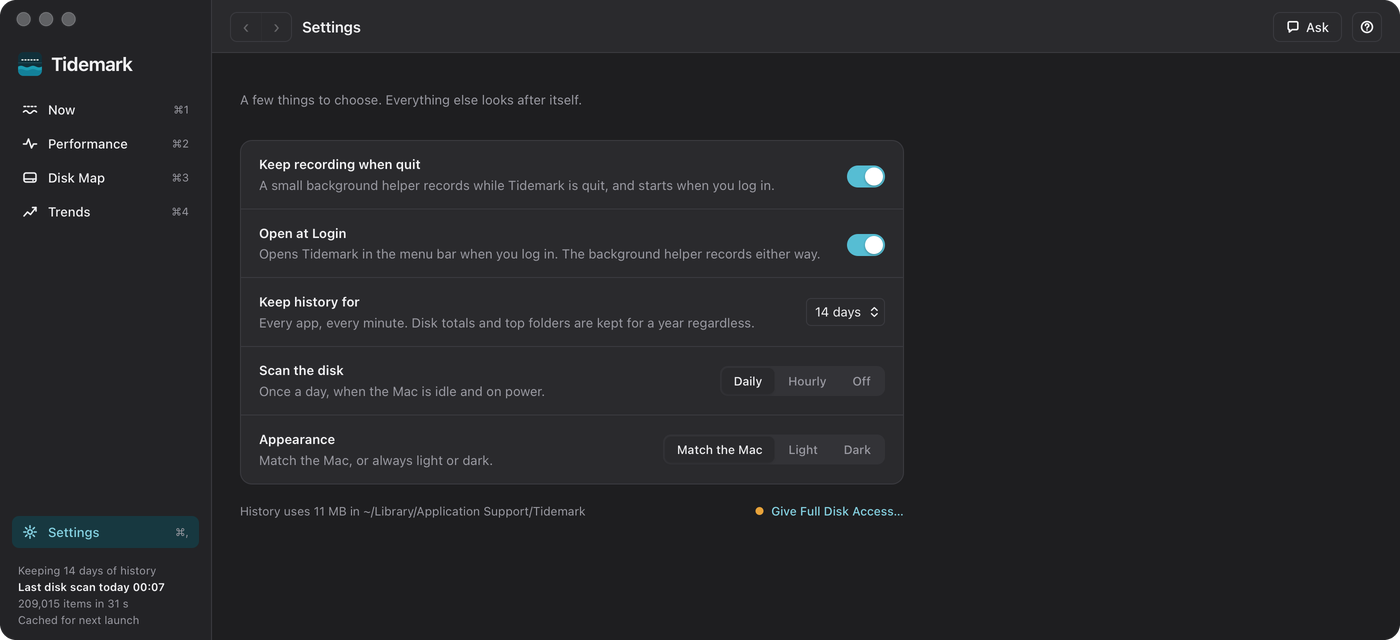
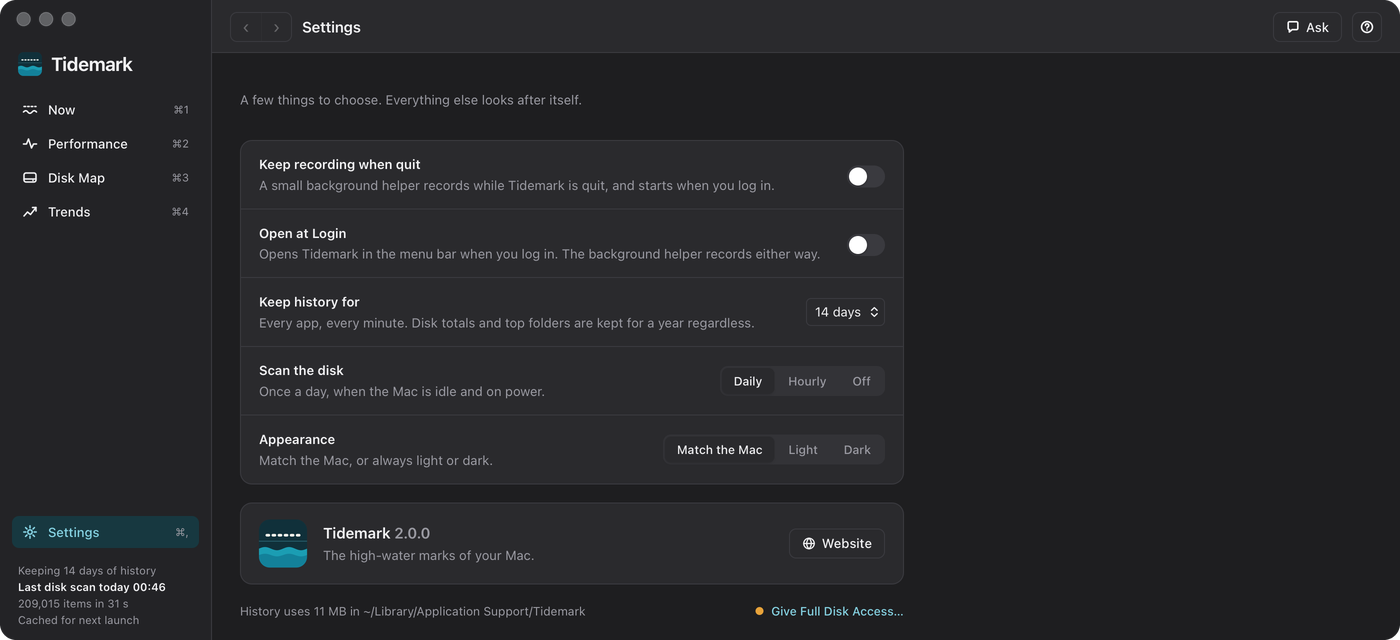
About Tidemark links to the website; Settings gets About with a Website button
The app menu's About is Tidemark's own, so the website under the copyright can be clicked
(the panel code is Brainstead's). ESLint also checks the product page's script.

diff --git a/src/Settings.tsx b/src/Settings.tsx
@@ -3,8 +3,11 @@
 
 // Settings: three things to choose. Everything else looks after itself.
 
+import { getVersion } from "@tauri-apps/api/app";
 import { useEffect, useState, type ReactNode } from "react";
 import { api, type Helper } from "./api";
+import { Globe } from "./icons";
+import { Mark } from "./Mark";
 import { usePoll } from "./perf";
 import { saveTheme } from "./theme";
 import { Switch } from "./Tray";
@@ -35,6 +38,12 @@ export default function Settings({
     api
       .helper()
       .then(setHelper)
+      .catch(() => {});
+  }, []);
+  const [version, setVersion] = useState("");
+  useEffect(() => {
+    getVersion()
+      .then(setVersion)
       .catch(() => {});
   }, []);
   const save = (s: S) =>
@@ -186,6 +195,23 @@ export default function Settings({
             </div>
           </div>
         )}
+        <div className="group about">
+          <Mark size={48} />
+          <div className="about-t">
+            <span className="about-name">
+              Tidemark{version && <span className="muted"> {version}</span>}
+            </span>
+            <span className="muted">The high-water marks of your Mac.</span>
+          </div>
+          <button
+            className="btn"
+            title="Open Tidemark's website in the browser"
+            onClick={() => void api.openWebsite()}
+          >
+            <Globe />
+            Website
+          </button>
+        </div>
         <div className="setfoot muted small">
           <span>
             History uses {hist ? fmt(hist.bytes) : "…"} in ~/Library/Application Support/Tidemark

diff --git a/src/icons.tsx b/src/icons.tsx
@@ -100,3 +100,22 @@ export function Labelled({ m, children }: { m: Metric; children: React.ReactNode
     </span>
   );
 }
+
+/// A globe, for links to the website.
+export function Globe({ size = 14 }: { size?: number }) {
+  return (
+    <svg
+      width={size}
+      height={size}
+      viewBox="0 0 16 16"
+      fill="none"
+      stroke="currentColor"
+      strokeWidth="1.4"
+      strokeLinecap="round"
+      strokeLinejoin="round"
+      aria-hidden="true"
+    >
+      {PATHS.network}
+    </svg>
+  );
+}

diff --git a/src/api.ts b/src/api.ts
@@ -61,6 +61,8 @@ export const api = {
   reveal: (path: string) => invoke<void>("reveal", { path }),
   getInfo: (path: string) => invoke<void>("get_info", { path }),
   openPrivacySettings: () => invoke<void>("open_privacy_settings"),
+  /// Opens tidemark.davies.co.za in the browser.
+  openWebsite: () => invoke<void>("open_website"),
 
   live: () => invoke<Live>("perf_live"),
   /// The last `secs` seconds of minutes, folded into at most `points` points.

diff --git a/src/styles.css b/src/styles.css
@@ -2360,6 +2360,23 @@ pre,
   background: var(--panel);
   padding: 0 8px;
 }
+/* About: the icon, the name and version, and the website. */
+.group.about {
+  display: flex;
+  align-items: center;
+  gap: 16px;
+  padding: 16px 18px;
+}
+.about-t {
+  display: flex;
+  flex-direction: column;
+  gap: 2px;
+  margin-right: auto;
+}
+.about-name {
+  font-weight: 600;
+  font-size: 15px;
+}
 .setfoot {
   display: flex;
   justify-content: space-between;

diff --git a/eslint.config.js b/eslint.config.js
@@ -23,5 +23,11 @@ export default tseslint.config(
       "react-refresh/only-export-components": ["warn", { allowConstantExport: true }],
     },
   },
+  // The product page's script: plain browser JavaScript, no build step.
+  {
+    files: ["site/**/*.js"],
+    extends: [js.configs.recommended],
+    languageOptions: { globals: globals.browser, sourceType: "script" },
+  },
   prettier,
 );

diff --git a/src-tauri/src/about.rs b/src-tauri/src/about.rs
@@ -1,0 +1,67 @@
+// Copyright (c) 2026 Wayne Davies
+// SPDX-License-Identifier: GPL-3.0-or-later (see LICENSE at the repository root)
+
+//! macOS's standard About panel, opened by hand so its credits can carry a link: Tauri's About
+//! item passes the credits as plain text, which the panel shows but can't click. Called on the
+//! main thread. Ported from Brainstead.
+
+use objc2::rc::Retained;
+use objc2::runtime::AnyObject;
+use objc2::{class, msg_send};
+use objc2_foundation::{NSDictionary, NSString, NSURL};
+
+/// NSTextAlignmentCenter on macOS (Left 0, Right 1, Center 2).
+const CENTER: isize = 2;
+
+/// Shows the panel: the name, version, copyright and icon (a PNG), with `link` under the copyright,
+/// centred and clickable, opening `url`.
+pub fn show(name: &str, version: &str, copyright: &str, icon_png: &[u8], link: &str, url: &str) {
+    unsafe {
+        let data: Retained<AnyObject> = msg_send![class!(NSData), dataWithBytes: icon_png.as_ptr().cast::<std::ffi::c_void>(), length: icon_png.len()];
+        let image: Option<Retained<AnyObject>> =
+            msg_send![msg_send![class!(NSImage), alloc], initWithData: &*data];
+
+        let ns_url = NSURL::URLWithString(&NSString::from_str(url));
+        let size: f64 = msg_send![class!(NSFont), smallSystemFontSize];
+        let font: Retained<AnyObject> = msg_send![class!(NSFont), systemFontOfSize: size];
+        let para: Retained<AnyObject> = msg_send![class!(NSMutableParagraphStyle), new];
+        let _: () = msg_send![&*para, setAlignment: CENTER];
+        let mut keys = vec![
+            NSString::from_str("NSFont"),
+            NSString::from_str("NSParagraphStyle"),
+        ];
+        let mut vals: Vec<&AnyObject> = vec![&font, &para];
+        if let Some(u) = &ns_url {
+            keys.push(NSString::from_str("NSLink"));
+            vals.push(u.as_ref());
+        }
+        let key_refs: Vec<&NSString> = keys.iter().map(|k| &**k).collect();
+        let attrs = NSDictionary::from_slices(&key_refs, &vals);
+        let credits: Retained<AnyObject> = msg_send![msg_send![class!(NSAttributedString), alloc], initWithString: &*NSString::from_str(link), attributes: &*attrs];
+
+        let name = NSString::from_str(name);
+        let version = NSString::from_str(version);
+        let copyright = NSString::from_str(copyright);
+        let mut okeys = vec![
+            NSString::from_str("ApplicationName"),
+            NSString::from_str("ApplicationVersion"),
+            NSString::from_str("Copyright"),
+            NSString::from_str("Credits"),
+        ];
+        let mut ovals: Vec<&AnyObject> = vec![
+            name.as_ref(),
+            version.as_ref(),
+            copyright.as_ref(),
+            &credits,
+        ];
+        if let Some(img) = &image {
+            okeys.push(NSString::from_str("ApplicationIcon"));
+            ovals.push(img);
+        }
+        let okey_refs: Vec<&NSString> = okeys.iter().map(|k| &**k).collect();
+        let options = NSDictionary::from_slices(&okey_refs, &ovals);
+        let app: Retained<AnyObject> = msg_send![class!(NSApplication), sharedApplication];
+        let _: () = msg_send![&*app, activateIgnoringOtherApps: true];
+        let _: () = msg_send![&*app, orderFrontStandardAboutPanelWithOptions: &*options];
+    }
+}

diff --git a/src-tauri/src/lib.rs b/src-tauri/src/lib.rs
@@ -4,6 +4,8 @@
 //! Puts the app together: the disk side (disk.rs, scan.rs), the recorder (monitor.rs), the
 //! history and its schedule (history.rs, schedule.rs, trends.rs), the menu bar (tray.rs) and Ask.
 
+#[cfg(target_os = "macos")]
+mod about;
 mod assistant;
 mod cache;
 mod crashes;
@@ -59,14 +61,54 @@ pub fn stamp(what: &str) {
     eprintln!("[timing] {ms:>5} ms  {what}");
 }
 
-/// The app's website, as the Help menu opens it.
-const WEBSITE: &str = "https://tidemark.davies.co.za";
+/// The app's website: the Help menu, the About panel and Settings' Website button open it.
+const WEBSITE: &str = "https://tidemark.davies.co.za/";
 
-/// The standard menu bar, with Tidemark's help and website in its Help menu.
+/// Opens the website in the browser.
+#[tauri::command]
+fn open_website() {
+    let _ = std::process::Command::new("/usr/bin/open")
+        .arg(WEBSITE)
+        .status();
+}
+
+/// macOS's About panel, with the website under the copyright, clickable.
+fn about(app: &tauri::AppHandle) {
+    #[cfg(target_os = "macos")]
+    {
+        let version = app.package_info().version.to_string();
+        let link = WEBSITE.trim_start_matches("https://").trim_end_matches('/');
+        let _ = app.run_on_main_thread(move || {
+            about::show(
+                "Tidemark",
+                &version,
+                "© 2026 Wayne Davies · GPL-3.0-or-later",
+                include_bytes!("../icons/128x128@2x.png"),
+                link,
+                WEBSITE,
+            );
+        });
+    }
+    #[cfg(not(target_os = "macos"))]
+    let _ = app;
+}
+
+/// The standard menu bar, with Tidemark's own About item (for the website link) and its help
+/// and website in the Help menu.
 fn help_menu(app: &tauri::App) -> tauri::Result<()> {
-    use tauri::menu::{Menu, MenuItem, HELP_SUBMENU_ID};
+    use tauri::menu::{Menu, MenuItem, MenuItemKind, HELP_SUBMENU_ID};
     use tauri::Emitter;
     let menu = Menu::default(app.handle())?;
+    // The app menu's first item is the platform's About, which can't carry a link.
+    if cfg!(target_os = "macos") {
+        if let Some(MenuItemKind::Submenu(app_menu)) = menu.items()?.into_iter().next() {
+            app_menu.remove_at(0)?;
+            app_menu.insert(
+                &MenuItem::with_id(app, "about", "About Tidemark", true, None::<&str>)?,
+                0,
+            )?;
+        }
+    }
     if let Some(help) = menu
         .get(HELP_SUBMENU_ID)
         .and_then(|m| m.as_submenu().cloned())
@@ -92,11 +134,8 @@ fn help_menu(app: &tauri::App) -> tauri::Result<()> {
             tray::show_main(app);
             let _ = app.emit("open-help", ());
         }
-        "website" => {
-            let _ = std::process::Command::new("/usr/bin/open")
-                .arg(WEBSITE)
-                .status();
-        }
+        "website" => open_website(),
+        "about" => about(app),
         _ => {}
     });
     Ok(())
@@ -133,6 +172,7 @@ pub fn run() {
             disk::reveal,
             disk::get_info,
             disk::open_privacy_settings,
+            open_website,
             files::get_files,
             assistant::assistant_status,
             assistant::ask,

diff --git a/src/help/settings.md b/src/help/settings.md
@@ -7,6 +7,7 @@ A few choices; everything else looks after itself.
 - **Keep history for**: 14, 7 or 3 days. Shortening it forgets older days at once; the year of daily disk totals is kept either way.
 - **Scan the disk**: **Daily** (the default) scans once a day when the Mac has been idle for 5 minutes and is on power, or after two days if it never is. **Hourly** scans every hour and costs some battery. **Off** scans only when you press Reload.
 - **Appearance**: **Match the Mac** (the default), **Light** or **Dark**. The menu-bar window follows.
+- **About** shows the version; **Website** opens tidemark.davies.co.za. Tidemark › About Tidemark shows it too, as a link, and Help › Tidemark Website opens it.
 - The foot shows how much space the history takes, and whether Tidemark has Full Disk Access.
 
 ## History

diff --git a/docs/features.md b/docs/features.md
@@ -53,6 +53,8 @@ The disk over weeks and months, and when the Mac is busiest.
 | **Scan the disk** | Daily (idle and on power), hourly or off. |
 | **Appearance** | Match the Mac, light or dark. |
 
+Below them, About shows the version, with a **Website** button.
+
 ## Menu bar
 
 Closing the window keeps Tidemark recording in the menu bar.
